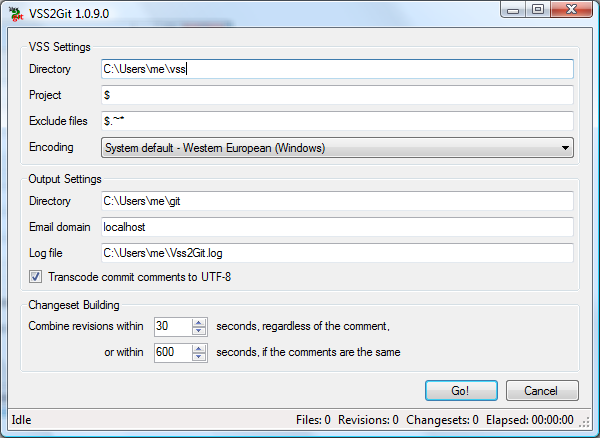
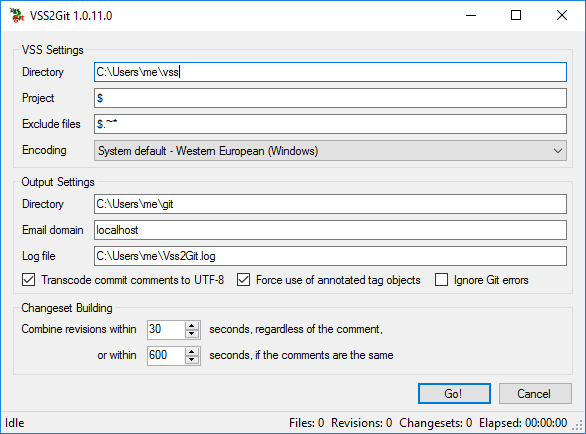
Prepare 1.0.11 release

Changed region(s): [[0.0, 0.0, 1.0, 1.0]]

diff --git a/Vss2Git.html b/Vss2Git.html
@@ -289,6 +289,16 @@ project at <a href="http://www.pumacode.org/">PumaCode.org</a></li>
 
 <h2>Release Notes</h2>
 
+<p>1.0.11 &ndash; 11 Sep 2016</p>
+
+<ul>
+  <li>Option to ignore Git errors (thanks to David E. Smith)</li>
+  <li>Allow and preserve empty commit messages (thanks to Maxim Degtyarev)</li>
+  <li>Fix installer to also detect .NET 4.0 and later</li>
+  <li>Upgrade project files to Visual Studio 2015</li>
+  <li>Fix some URLs that still referred to old home on Google Code</li>
+</ul>
+
 <p>1.0.10 &ndash; 6 Sep 2010 (Bug fixes based on patches from Matthias Luescher)</p>
 
 <ul>

diff --git a/Vss2Git/Properties/AssemblyInfo.cs b/Vss2Git/Properties/AssemblyInfo.cs
@@ -32,5 +32,5 @@ using System.Runtime.InteropServices;
 // You can specify all the values or you can default the Build and Revision Numbers 
 // by using the '*' as shown below:
 // [assembly: AssemblyVersion("1.0.*")]
-[assembly: AssemblyVersion("1.0.10.0")]
-[assembly: AssemblyFileVersion("1.0.10.0")]
+[assembly: AssemblyVersion("1.0.11.0")]
+[assembly: AssemblyFileVersion("1.0.11.0")]

diff --git a/README.md b/README.md
@@ -73,6 +73,14 @@ The following links may be useful to anyone migrating from VSS and/or to Git. If
 
 ## Release Notes ##
 
+**1.0.11 (11 Sep 2016)**
+
+  * Option to ignore Git errors (thanks to David E. Smith)
+  * Allow and preserve empty commit messages (thanks to Maxim Degtyarev)
+  * Fix installer to also detect .NET 4.0 and later
+  * Upgrade project files to Visual Studio 2015
+  * Fix some URLs that still referred to old home on Google Code
+
 **1.0.10 (6 Sep 2010)**
 
 Bug fixes based on patches from Matthias Luescher:
